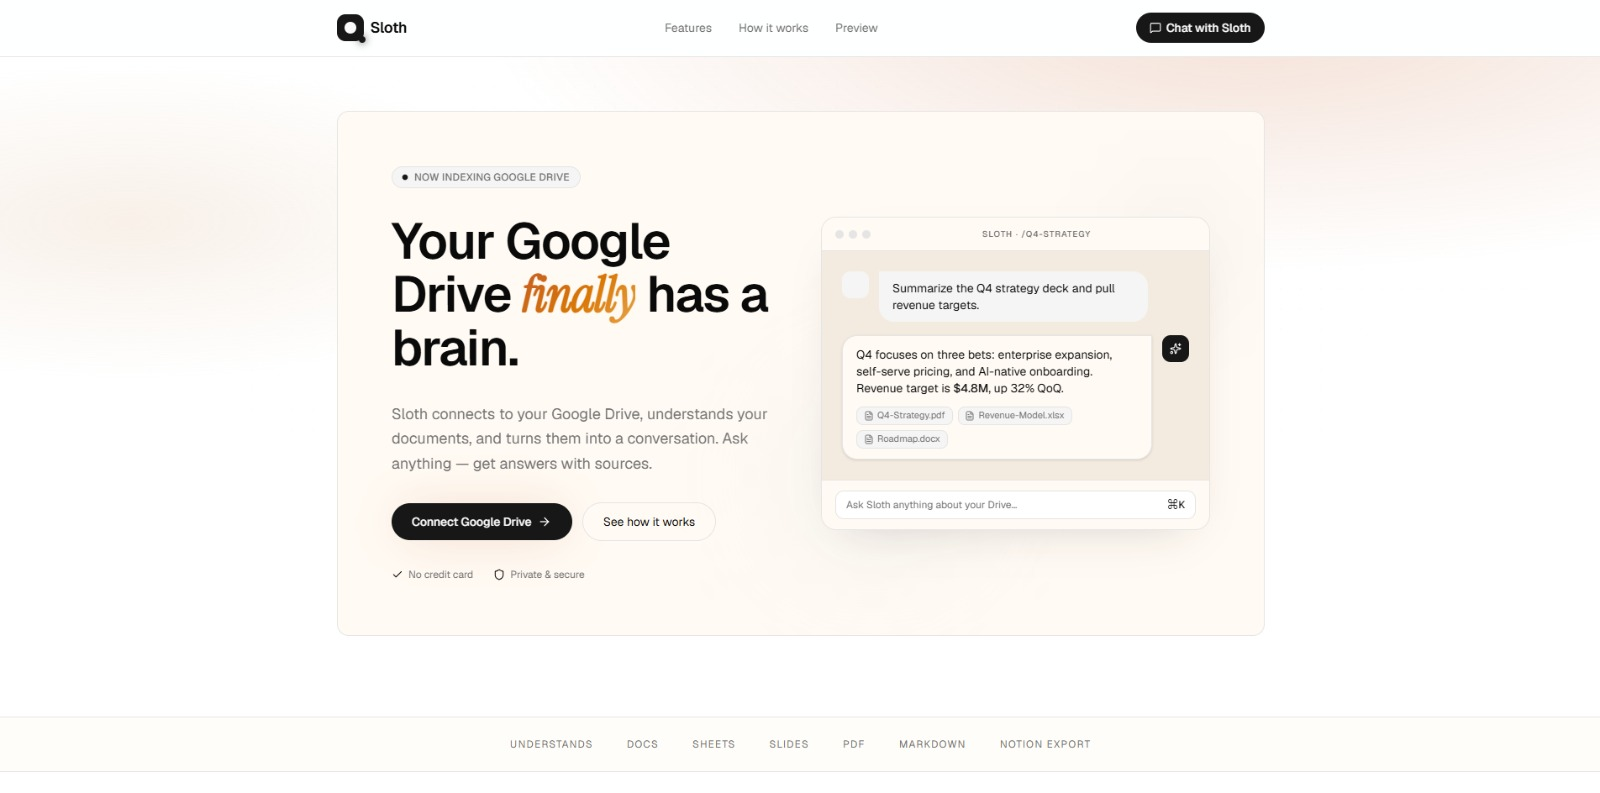
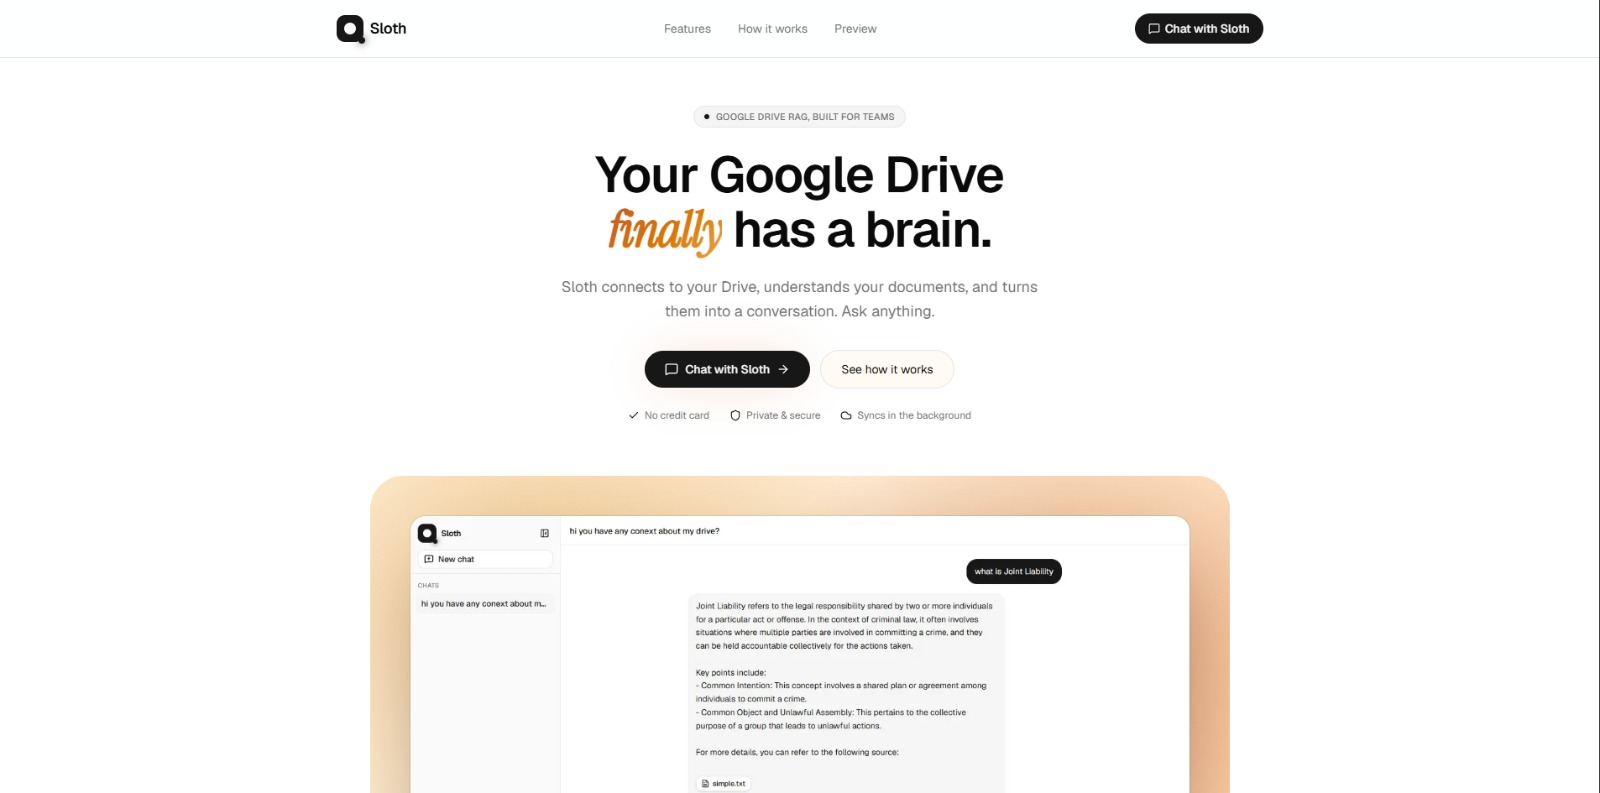
ui redesign

diff --git a/src/components/intro.tsx b/src/components/intro.tsx
@@ -22,7 +22,7 @@ const links = [
 
 export default function Intro() {
   return (
-    <section className="rounded-2xl border border-[var(--border)] bg-[var(--white)] p-5 sm:p-8">
+    <section className="rounded-2xl border border-[var(--border)] bg-[var(--white)] p-5 sm:p-8 jjj">
       <motion.div
         initial={{ opacity: 0, y: 10 }}
         animate={{ opacity: 1, y: 0 }}
@@ -53,7 +53,7 @@ export default function Intro() {
           <h2 className="text-lg font-semibold  leading-tight text-[var(--vast)]" style={{ fontFamily: "var(--font-body)" }}>
             Prince Busa
           </h2>
-          <p className="text-sm font-medium text-[var(--charcoal)]/60">Full Stack Developer</p>
+          <p className="text-sm font-medium text-[var(--charcoal)]/60">Software Engineer</p>
         </div>
       </motion.div>
 
@@ -61,25 +61,13 @@ export default function Intro() {
         initial={{ opacity: 0, y: 12 }}
         animate={{ opacity: 1, y: 0 }}
         transition={{ duration: 0.45, delay: 0.05 }}
-        className="!mt-8 !mb-6 font-serif text-3xl tracking-wide text-[var(--vast)] sm:text-4xl"
-        style={{ fontFamily: "var(--font-display)" }}
+        className="!mt-8 !mb-6 font-serif tracking-0 text-[var(--vast)] text-[15.5px] leading-[22px]"
+        style={{ fontFamily: "var(--font-body)" }}
       >
-        Engineering Digital Experiences
+        Based in Gujarat, India. I design and build full stack web apps and AI products.
       </motion.h1>
 
-      <motion.div
-        initial={{ opacity: 0, y: 8 }}
-        animate={{ opacity: 1, y: 0 }}
-        transition={{ duration: 0.4, delay: 0.1 }}
-        className="mb-8 flex flex-wrap gap-3"
-      >
-        <a href="#contact" className="btn-dawn">
-          Get in touch
-        </a>
-        <a href="#projects" className="btn-ghost">
-          View projects
-        </a>
-      </motion.div>
+     
 
       <div>
       
@@ -90,10 +78,16 @@ export default function Intro() {
               href={href}
               target={label === "Email" ? undefined : "_blank"}
               rel={label === "Email" ? undefined : "noopener noreferrer"}
-              className="chip transition-colors hover:border-[var(--dawn)]"
+              aria-label={label}
+              className="chip group relative transition-colors hover:border-[var(--dawn)]"
             >
               <Icon size={14} className="text-[var(--dawn)]" />
-              {label}
+              <span
+                className="icon-tooltip pointer-events-none opacity-0 transition-opacity duration-200 group-hover:opacity-100 group-focus-visible:opacity-100"
+                role="tooltip"
+              >
+                {label}
+              </span>
             </a>
           ))}
         </div>

diff --git a/src/index.css b/src/index.css
@@ -2,6 +2,58 @@
 
 @custom-variant dark (&:where(.dark, .dark *));
 
+.jjj
+   {
+position: relative;
+    background: white;
+    overflow: hidden;
+  }
+  
+  .jjj::before {
+    content: "";
+    position: absolute;
+    inset: 0;
+    pointer-events: none;
+  
+    /* Infinite dots */
+    background-image: radial-gradient(
+      circle,
+      #cfd8d5 1.5px,
+      transparent 1px
+    );
+    background-size: 7px 7px;
+  
+    /* Keep dots mainly in top-right and fade them out */
+    -webkit-mask-image: radial-gradient(
+    ellipse 75% 65% at 100% 0%,
+    black 0%,
+    black 20%,
+    rgba(0, 0, 0, 0.7) 40%,
+    rgba(0, 0, 0, 0.3) 55%,
+    transparent 75%
+  );
+
+  mask-image: radial-gradient(
+    ellipse 75% 65% at 100% 0%,
+    black 0%,
+    black 20%,
+    rgba(0, 0, 0, 0.7) 40%,
+    rgba(0, 0, 0, 0.3) 55%,
+    transparent 75%
+  );
+  
+}
+/* .bg-green-grid{
+
+
+
+
+  background-image:
+    linear-gradient(to right, #dce4e1 1px, transparent 1px),
+    linear-gradient(to bottom, #dce4e1 1px, transparent 1px);
+
+  background-size: 40px 40px;
+} */
 :root {
   /* Neutral zinc / black / white + subtle teal accent */
   --lumen: #ffffff;
@@ -64,13 +116,13 @@ html.dark {
 
 html {
   scroll-behavior: smooth;
-  overflow-x: hidden;
+  overflow-x: clip;
 }
 
 body {
   margin: 0;
   padding: 0;
-  overflow-x: hidden;
+  overflow-x: clip;
   background: var(--background);
   color: var(--foreground);
   font-family: var(--font-body);
@@ -229,7 +281,7 @@ a {
   border: 1px solid var(--border);
   border-radius: 999px;
   background: var(--lumen-dark);
-  padding: 6px 12px;
+  padding: 8px 8px;
   font-size: 13px;
   font-weight: 500;
   color: var(--vast);
@@ -251,4 +303,33 @@ a {
   height: 6px;
   border-radius: 999px;
   background: var(--dawn);
+}
+
+.icon-tooltip {
+  position: absolute;
+  bottom: calc(100% + 10px);
+  left: 50%;
+  z-index: 10;
+  translate: -50% 0;
+  border-radius: 8px;
+  background: var(--vast);
+  color: var(--lumen);
+  padding: 6px 10px;
+  font-size: 11px;
+  font-weight: 500;
+  line-height: 1.2;
+  white-space: nowrap;
+  box-shadow: 0 4px 14px rgba(0, 0, 0, 0.18);
+}
+
+.icon-tooltip::after {
+  content: "";
+  position: absolute;
+  top: 100%;
+  left: 50%;
+  translate: -50% 0;
+  width: 10px;
+  height: 6px;
+  background: var(--vast);
+  clip-path: polygon(50% 100%, 0 0, 100% 0);
 }

diff --git a/src/pages/home.tsx b/src/pages/home.tsx
@@ -8,14 +8,21 @@ import Copyright from "../components/copyright";
 
 export default function Home() {
   return (
-    <main className="flex flex-1 flex-col gap-4 pb-4">
-      <Intro />
-      <Exp />
-      <Project />
-      <Bio />
-      <Contributions />
-      <Contact />
-      <Copyright />
+    <main className="flex flex-1 flex-col gap-4 pb-4 lg:grid lg:grid-cols-[minmax(0,360px)_minmax(0,1fr)] lg:gap-4">
+      <aside className="min-h-0">
+        <div className="lg:sticky lg:top-4">
+          <Intro />
+        </div>
+      </aside>
+
+      <div className="flex flex-col gap-4">
+        <Exp />
+        <Project />
+        <Bio />
+        <Contributions />
+        <Contact />
+        <Copyright />
+      </div>
     </main>
   );
 }

diff --git a/src/App.tsx b/src/App.tsx
@@ -3,7 +3,7 @@ import Home from "./pages/home";
 
 export default function App() {
   return (
-    <div className="mx-auto flex min-h-screen w-full max-w-2xl flex-col gap-3 px-3 py-3 pb-12 sm:gap-4 sm:py-4 sm:px-0 sm:pb-13">
+    <div className="mx-auto flex min-h-screen w-full max-w-6xl flex-col gap-3 px-3 py-3 pb-12 sm:gap-4 sm:py-4 sm:px-4 sm:pb-13 lg:px-6">
       {/* <Header /> */}
       <Home />
     </div>

diff --git a/index.html b/index.html
@@ -37,7 +37,7 @@
     </script>
   </head>
   <body>
-    <div id="root"></div>
+    <div id="root" class="bg-green-grid"></div>
     <script type="module" src="/src/main.tsx"></script>
   </body>
 </html>
